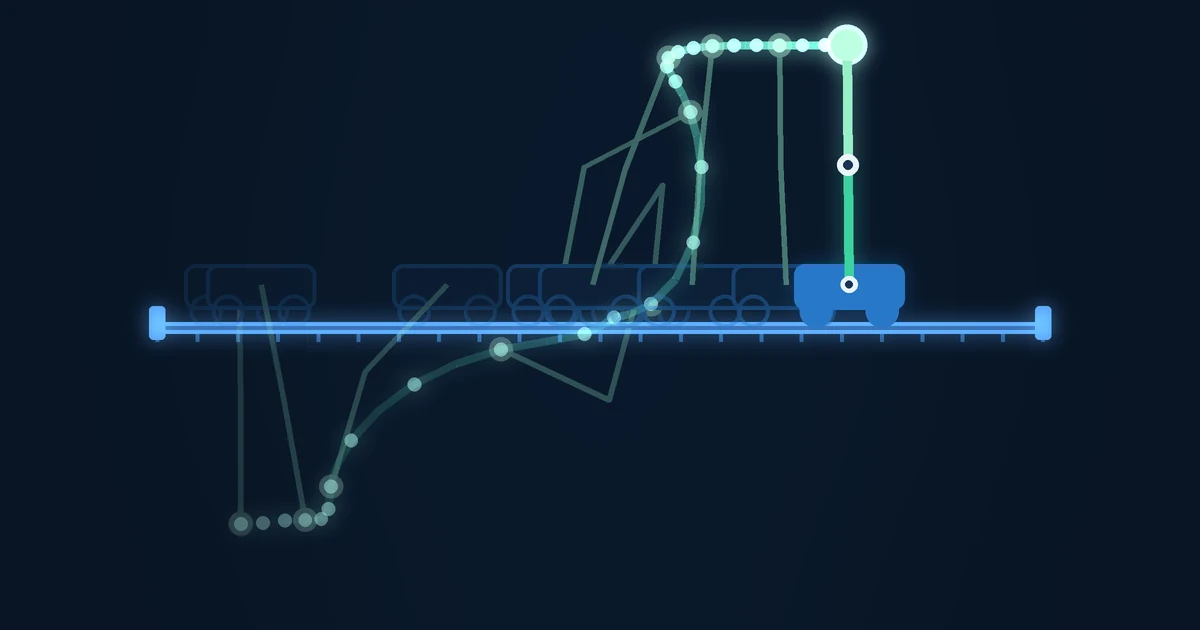
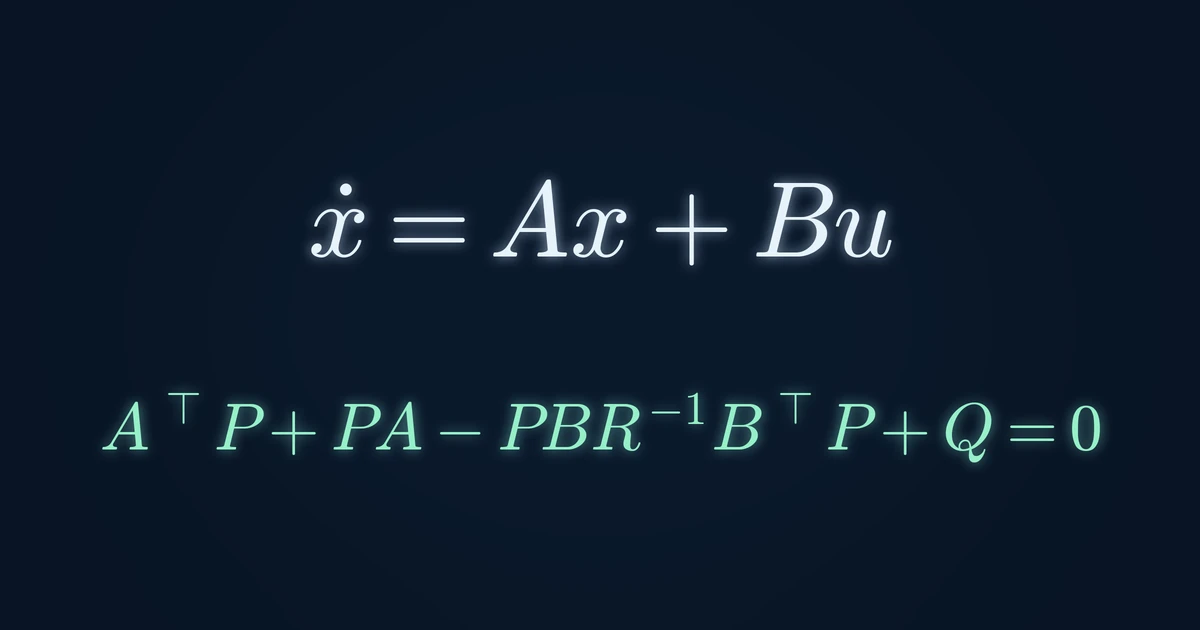
Notes: EC 701 still shows the LQR equations

diff --git a/index.html b/index.html
@@ -150,7 +150,7 @@
       </li>
       <li class="entry">
         <a class="thumb wide fill" href="notes/optimal-robust-control/1/" tabindex="-1" aria-hidden="true" data-note-link>
-          <img src="img/thumbs/ec701-cartpole.webp?v=7" data-gif="img/thumbs/ec701-cartpole.gif?v=7" alt="A cart balancing a double pendulum upright; on hover, it swings the pendulum up with minimum effort, LQR catches a kick, and it lowers it again" width="1200" height="630">
+          <img src="img/thumbs/ec701-cartpole.webp?v=9" data-gif="img/thumbs/ec701-cartpole.gif?v=7" alt="A cart balancing a double pendulum upright; on hover, it swings the pendulum up with minimum effort, LQR catches a kick, and it lowers it again" width="1200" height="630">
         </a>
         <div class="entry-body">
           <h3><a href="notes/optimal-robust-control/1/" data-note-link>Optimal and Robust Control</a></h3>

diff --git a/tools/thumb_cartpole.py b/tools/thumb_cartpole.py
@@ -296,22 +296,39 @@ def frame(w, h, s, trail, u=0.0, kick=0.0, ss=2, glow=False, ghosts=(), dots=(),
     return out.resize((w, h), Image.LANCZOS)
 
 
+def still(w=1200, h=630, ss=2):
+    """the static thumbnail: two equations of LQR, centred, nothing else"""
+    import matplotlib
+    matplotlib.use('Agg')
+    import matplotlib.pyplot as plt
+    plt.rcParams['mathtext.fontset'] = 'cm'
+    W, H = w * ss, h * ss
+    fig = plt.figure(figsize=(W / 100, H / 100), dpi=100)
+    fig.patch.set_alpha(0)
+    pt = lambda frac: H * frac * 72 / 100        # font size as a fraction of the height
+    fig.text(0.5, 0.64, r'$\dot{x} = Ax + Bu$', ha='center', va='center', fontsize=pt(0.17), color='#e6f2fa')
+    fig.text(0.5, 0.32, r'$A^{\top}P + PA - PBR^{-1}B^{\top}P + Q = 0$', ha='center', va='center', fontsize=pt(0.105), color='#96f0c8')
+    fig.canvas.draw()
+    text = Image.frombuffer('RGBA', fig.canvas.get_width_height(), fig.canvas.buffer_rgba()).copy()
+    plt.close(fig)
+
+    im = Image.new('RGB', (W, H), BG)
+    v = Image.new('L', (W, H), 0)
+    ImageDraw.Draw(v).ellipse([W * 0.15, H * 0.05, W * 0.85, H * 0.95], fill=40)
+    im = Image.composite(Image.new('RGB', (W, H), (22, 55, 85)), im, v.filter(ImageFilter.GaussianBlur(W * 0.1)))
+    rgb = np.asarray(text, float)[..., :3] * (np.asarray(text, float)[..., 3:] / 255)
+    glow = np.asarray(Image.fromarray(rgb.astype(np.uint8)).filter(ImageFilter.GaussianBlur(W / 200)), float)
+    base = np.clip(np.asarray(im, float) + 0.6 * glow, 0, 255).astype(np.uint8)
+    out = Image.alpha_composite(Image.fromarray(base).convert('RGBA'), text).convert('RGB')
+    out.resize((w, h), Image.LANCZOS).save(os.path.join(OUT, 'ec701-cartpole.webp'), quality=90, method=6)
+
+
 def main():
     times, S, U = simulate()
     i_top = np.searchsorted(times, T + 0.5)
     i0 = np.searchsorted(times, 0.0)
     i_end = np.searchsorted(times, T)
-    # still: spread the past to the side, each pose shifted left by how long ago it was
-    i_f = i_end + 2                        # just upright
-    span = times[i_f] - times[i0]
-    Sp = S.copy()
-    Sp[i0:i_f + 1, 0] += -2.5 * (times[i_f] - times[i0:i_f + 1]) / span + 1.0
-    print(f'still: cart x from {Sp[i0:i_f + 1, 0].min():.2f} to {Sp[i0:i_f + 1, 0].max():.2f} (rail ends at +-1.85)')
-    picks = list(range(i0, i_f - 3, 6))
-    ghosts = [(Sp[i], int(40 + 80 * k / len(picks))) for k, i in enumerate(picks)]
-    dots = [(Sp[i], int(60 + 150 * (i - i0) / (i_f - i0))) for i in range(i0, i_f + 1, 2)]
-
-    frame(1200, 630, Sp[i_f], Sp[i0:i_f + 1], glow=True, ghosts=ghosts, dots=dots).save(os.path.join(OUT, 'ec701-cartpole.webp'), quality=88, method=6)
+    still()
 
     frames = []
     for i, t in enumerate(times):
